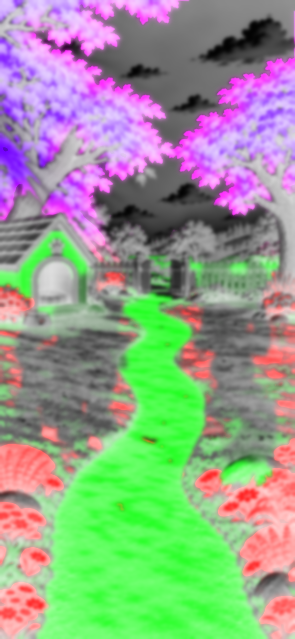
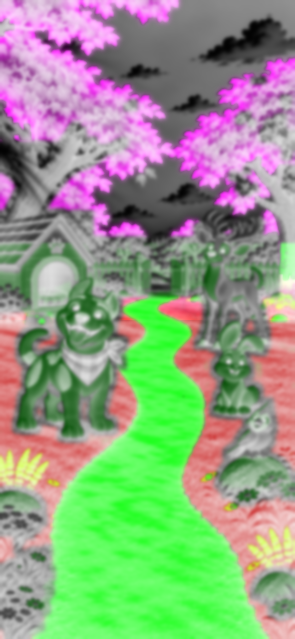
Scene 1: animate the original painting (characters untouched, same as still) instead of cutout overlay
Claude-Session: https://claude.ai/code/session_01HqXo8rXUgYFQ9xU7wUgcZu

diff --git a/bovo10/index.html b/bovo10/index.html
@@ -1,5 +1,5 @@
 <!doctype html>
-<html><head><meta charset="utf-8"><meta name="gbb-build" content="1795540806"><script src="../review_shim.js?v=4"></script><script src="../seamloop.js?v=3"></script><script src="../mp4box.min.js?v=1"></script><script src="../gaploop.js?v=1"></script><script src="livepaint.js?v=5"></script><script src="fountain.js?v=1"></script><script src="mapfx.js?v=3"></script><script src="../economy.js?v=2"></script><script src="../col.js?v=1"></script><script src="../fontA.js?v=5"></script><script src="../audio.js?v=33"></script><script src="../ui_life.js?v=18"></script>
+<html><head><meta charset="utf-8"><meta name="gbb-build" content="1795564609"><script src="../review_shim.js?v=4"></script><script src="../seamloop.js?v=3"></script><script src="../mp4box.min.js?v=1"></script><script src="../gaploop.js?v=1"></script><script src="livepaint.js?v=5"></script><script src="fountain.js?v=1"></script><script src="mapfx.js?v=3"></script><script src="../economy.js?v=2"></script><script src="../col.js?v=1"></script><script src="../fontA.js?v=5"></script><script src="../audio.js?v=33"></script><script src="../ui_life.js?v=18"></script>
 <meta name="viewport" content="width=device-width,initial-scale=1,maximum-scale=1,viewport-fit=cover">
 <title>Good Boy Bobo — Backyard map</title>
 <style>
@@ -40,7 +40,7 @@ html,body{margin:0;height:100%;overflow:hidden;background:#0d5f5f}
 
 // level spots per scene (image fractions): [x, y, button width]
 const SCENES=[
- {dir:'s1',paint:1,gate:[.535,.44],IW:852,IH:1846,CH:775,spots:[[.47,.8,.21],[.48,.705,.17],[.54,.625,.14],[.515,.555,.115],[.53,.49,.095]],tw:[[.03,.84],[.08,.87],[.86,.79],[.93,.77],[.9,.93],[.98,.47],[.34,.45],[.12,.46]]},
+ {dir:'s1',paint:{},gate:[.535,.44],IW:852,IH:1846,CH:775,spots:[[.47,.8,.21],[.48,.705,.17],[.54,.625,.14],[.515,.555,.115],[.53,.49,.095]],tw:[[.03,.84],[.08,.87],[.86,.79],[.93,.77],[.9,.93],[.98,.47],[.34,.45],[.12,.46]]},
  {dir:'s2',paint:{},gate:[.44,.34],IW:934,IH:1684,CH:505,spots:[[.5,.86,.2],[.42,.725,.17],[.28,.625,.14],[.36,.5,.115],[.37,.44,.095]],tw:[[.03,.93],[.11,.92],[.9,.96],[.93,.69],[.75,.47],[.6,.58],[.05,.52]]},
  {dir:'s3',gate:[.5,.36],IW:852,IH:1846,CH:553,spots:[[.48,.8,.2],[.46,.7,.17],[.48,.605,.14],[.53,.515,.115],[.49,.44,.095]],tw:[[.03,.88],[.08,.9],[.95,.86],[.9,.53],[.06,.4],[.23,.43],[.72,.45]]},
  {dir:'s4',gate:[.27,.27],IW:852,IH:1846,CH:553,spots:[[.36,.775,.2],[.36,.69,.17],[.41,.6,.14],[.47,.515,.115],[.46,.445,.095]],tw:[[.03,.72],[.08,.74],[.95,.77],[.9,.42],[.05,.55],[.2,.3],[.4,.32]]},

diff --git a/game_new.html b/game_new.html
@@ -1,4 +1,4 @@
-<!doctype html><html><head><meta charset="utf-8"><meta name="gbb-build" content="1795540806"><script src="review_shim.js?v=4"></script><script src="economy.js?v=2"></script><meta name="viewport" content="width=device-width,initial-scale=1,maximum-scale=1,user-scalable=no,viewport-fit=cover"><title>Good Boy Bobo</title><script src="audio.js?v=33"></script><script src="motion.js?v=24"></script><script src="ui_life.js?v=18"></script><link rel="stylesheet" href="base.css?v=23"><link rel="stylesheet" href="uikit/kit.css?v=11">
+<!doctype html><html><head><meta charset="utf-8"><meta name="gbb-build" content="1795564609"><script src="review_shim.js?v=4"></script><script src="economy.js?v=2"></script><meta name="viewport" content="width=device-width,initial-scale=1,maximum-scale=1,user-scalable=no,viewport-fit=cover"><title>Good Boy Bobo</title><script src="audio.js?v=33"></script><script src="motion.js?v=24"></script><script src="ui_life.js?v=18"></script><link rel="stylesheet" href="base.css?v=23"><link rel="stylesheet" href="uikit/kit.css?v=11">
 <style>
 html,body{overscroll-behavior:none;touch-action:none;-webkit-user-select:none;user-select:none;-webkit-touch-callout:none}#app{touch-action:none}#app *{-webkit-touch-callout:none}
 #bgA,#bgB{position:absolute;inset:0;background-size:cover;background-position:center 42%;transition:opacity .9s}

diff --git a/bovo11/index.html b/bovo11/index.html
@@ -1,4 +1,4 @@
-<!doctype html><html><head><meta charset="utf-8"><meta name="gbb-build" content="1795540806"><script src="../review_shim.js?v=4"></script><script src="../economy.js?v=2"></script><script src="../col.js?v=1"></script><script src="../fontA.js?v=5"></script><script src="../audio.js?v=33"></script><script src="../ui_life.js?v=18"></script>
+<!doctype html><html><head><meta charset="utf-8"><meta name="gbb-build" content="1795564609"><script src="../review_shim.js?v=4"></script><script src="../economy.js?v=2"></script><script src="../col.js?v=1"></script><script src="../fontA.js?v=5"></script><script src="../audio.js?v=33"></script><script src="../ui_life.js?v=18"></script>
 <meta name="viewport" content="width=device-width,initial-scale=1,maximum-scale=1,viewport-fit=cover">
 <meta name="apple-mobile-web-app-capable" content="yes"><meta name="mobile-web-app-capable" content="yes"><meta name="apple-mobile-web-app-status-bar-style" content="black-translucent"><title>Good Boy Bobo — Home (new)</title>
 <style>

diff --git a/bovo11/settings.html b/bovo11/settings.html
@@ -1,4 +1,4 @@
-<!doctype html><html><head><meta charset="utf-8"><meta name="gbb-build" content="1795540806"><script src="../review_shim.js?v=4"></script><script src="../economy.js?v=2"></script><script src="../col.js?v=1"></script><script src="../fontA.js?v=5"></script><script src="../audio.js?v=33"></script><script src="../ui_life.js?v=18"></script>
+<!doctype html><html><head><meta charset="utf-8"><meta name="gbb-build" content="1795564609"><script src="../review_shim.js?v=4"></script><script src="../economy.js?v=2"></script><script src="../col.js?v=1"></script><script src="../fontA.js?v=5"></script><script src="../audio.js?v=33"></script><script src="../ui_life.js?v=18"></script>
 <meta name="viewport" content="width=device-width,initial-scale=1,maximum-scale=1,viewport-fit=cover">
 <meta name="apple-mobile-web-app-capable" content="yes"><meta name="mobile-web-app-capable" content="yes"><meta name="apple-mobile-web-app-status-bar-style" content="black-translucent">
 <title>Good Boy Bobo — Settings</title>

diff --git a/bovo11/friends.html b/bovo11/friends.html
@@ -1,4 +1,4 @@
-<!doctype html><html><head><meta charset="utf-8"><meta name="gbb-build" content="1795540806"><script src="../review_shim.js?v=4"></script><script src="../economy.js?v=2"></script><script src="../col.js?v=1"></script><script src="../fontA.js?v=5"></script><script src="../audio.js?v=33"></script><script src="../ui_life.js?v=18"></script>
+<!doctype html><html><head><meta charset="utf-8"><meta name="gbb-build" content="1795564609"><script src="../review_shim.js?v=4"></script><script src="../economy.js?v=2"></script><script src="../col.js?v=1"></script><script src="../fontA.js?v=5"></script><script src="../audio.js?v=33"></script><script src="../ui_life.js?v=18"></script>
 <meta name="viewport" content="width=device-width,initial-scale=1,maximum-scale=1,viewport-fit=cover">
 <meta name="apple-mobile-web-app-capable" content="yes"><meta name="mobile-web-app-capable" content="yes"><meta name="apple-mobile-web-app-status-bar-style" content="black-translucent">
 <title>Good Boy Bobo — Friends</title>

diff --git a/bovo11/toys.html b/bovo11/toys.html
@@ -1,4 +1,4 @@
-<!doctype html><html><head><meta charset="utf-8"><meta name="gbb-build" content="1795540806"><script src="../review_shim.js?v=4"></script><script src="../economy.js?v=2"></script><script src="../col.js?v=1"></script><script src="../fontA.js?v=5"></script><script src="../audio.js?v=33"></script><script src="../ui_life.js?v=18"></script>
+<!doctype html><html><head><meta charset="utf-8"><meta name="gbb-build" content="1795564609"><script src="../review_shim.js?v=4"></script><script src="../economy.js?v=2"></script><script src="../col.js?v=1"></script><script src="../fontA.js?v=5"></script><script src="../audio.js?v=33"></script><script src="../ui_life.js?v=18"></script>
 <meta name="viewport" content="width=device-width,initial-scale=1,maximum-scale=1,viewport-fit=cover">
 <meta name="apple-mobile-web-app-capable" content="yes"><meta name="mobile-web-app-capable" content="yes"><meta name="apple-mobile-web-app-status-bar-style" content="black-translucent">
 <title>Good Boy Bobo — Toy Box</title>

diff --git a/bovo11/shop.html b/bovo11/shop.html
@@ -1,4 +1,4 @@
-<!doctype html><html><head><meta charset="utf-8"><meta name="gbb-build" content="1795540806"><script src="../review_shim.js?v=4"></script><script src="../economy.js?v=2"></script><script src="../col.js?v=1"></script><script src="../fontA.js?v=5"></script><script src="../audio.js?v=33"></script><script src="../ui_life.js?v=18"></script>
+<!doctype html><html><head><meta charset="utf-8"><meta name="gbb-build" content="1795564609"><script src="../review_shim.js?v=4"></script><script src="../economy.js?v=2"></script><script src="../col.js?v=1"></script><script src="../fontA.js?v=5"></script><script src="../audio.js?v=33"></script><script src="../ui_life.js?v=18"></script>
 <meta name="viewport" content="width=device-width,initial-scale=1,maximum-scale=1,viewport-fit=cover">
 <meta name="apple-mobile-web-app-capable" content="yes"><meta name="mobile-web-app-capable" content="yes"><meta name="apple-mobile-web-app-status-bar-style" content="black-translucent">
 <title>Good Boy Bobo — Shop</title>

diff --git a/index.html b/index.html
@@ -1,4 +1,4 @@
-<!doctype html><html><head><meta charset="utf-8"><meta name="gbb-build" content="1795540806"><script src="review_shim.js?v=4"></script>
+<!doctype html><html><head><meta charset="utf-8"><meta name="gbb-build" content="1795564609"><script src="review_shim.js?v=4"></script>
 <meta name="viewport" content="width=device-width,initial-scale=1,maximum-scale=1,user-scalable=no,viewport-fit=cover">
 <meta name="apple-mobile-web-app-capable" content="yes"><meta name="mobile-web-app-capable" content="yes"><meta name="apple-mobile-web-app-status-bar-style" content="black-translucent">
 <title>Good Boy Bobo</title>

diff --git a/review.html b/review.html
@@ -1,4 +1,4 @@
-<!doctype html><html><head><meta charset="utf-8"><meta name="gbb-build" content="1795540806"><script src="review_shim.js?v=4"></script>
+<!doctype html><html><head><meta charset="utf-8"><meta name="gbb-build" content="1795564609"><script src="review_shim.js?v=4"></script>
 <meta name="viewport" content="width=device-width,initial-scale=1,viewport-fit=cover">
 <title>Good Boy Bobo — Review Build</title>
 <style>
